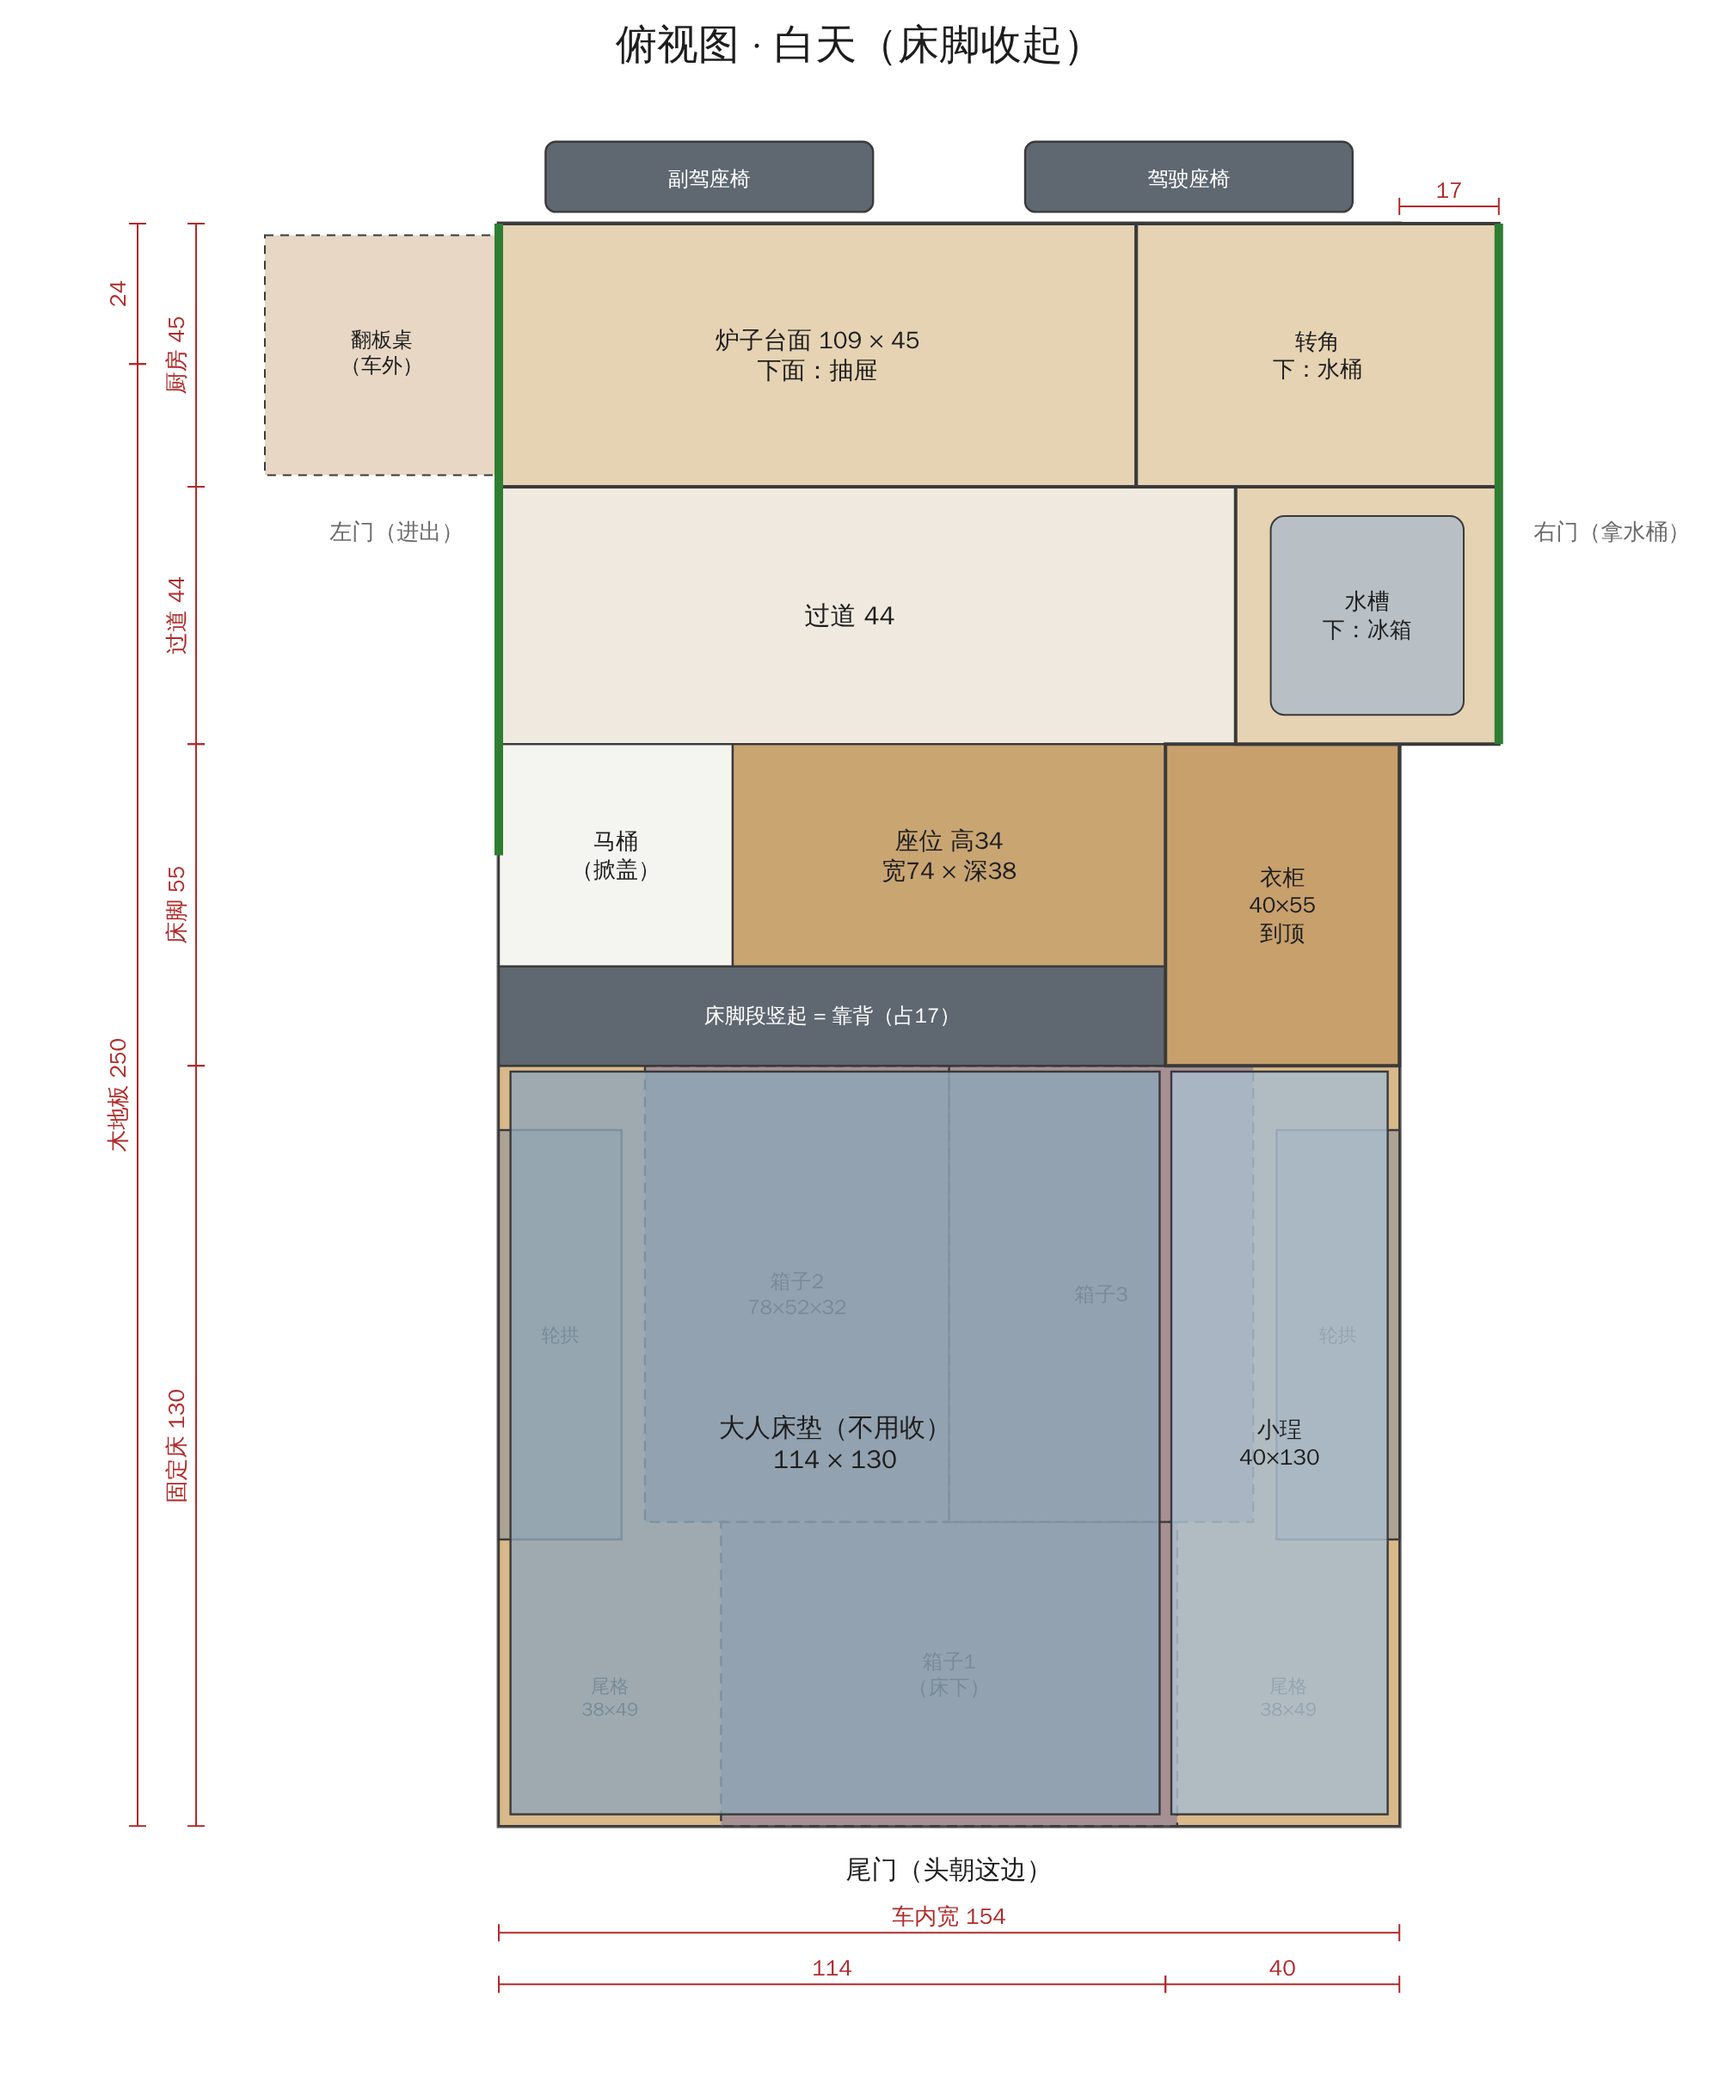
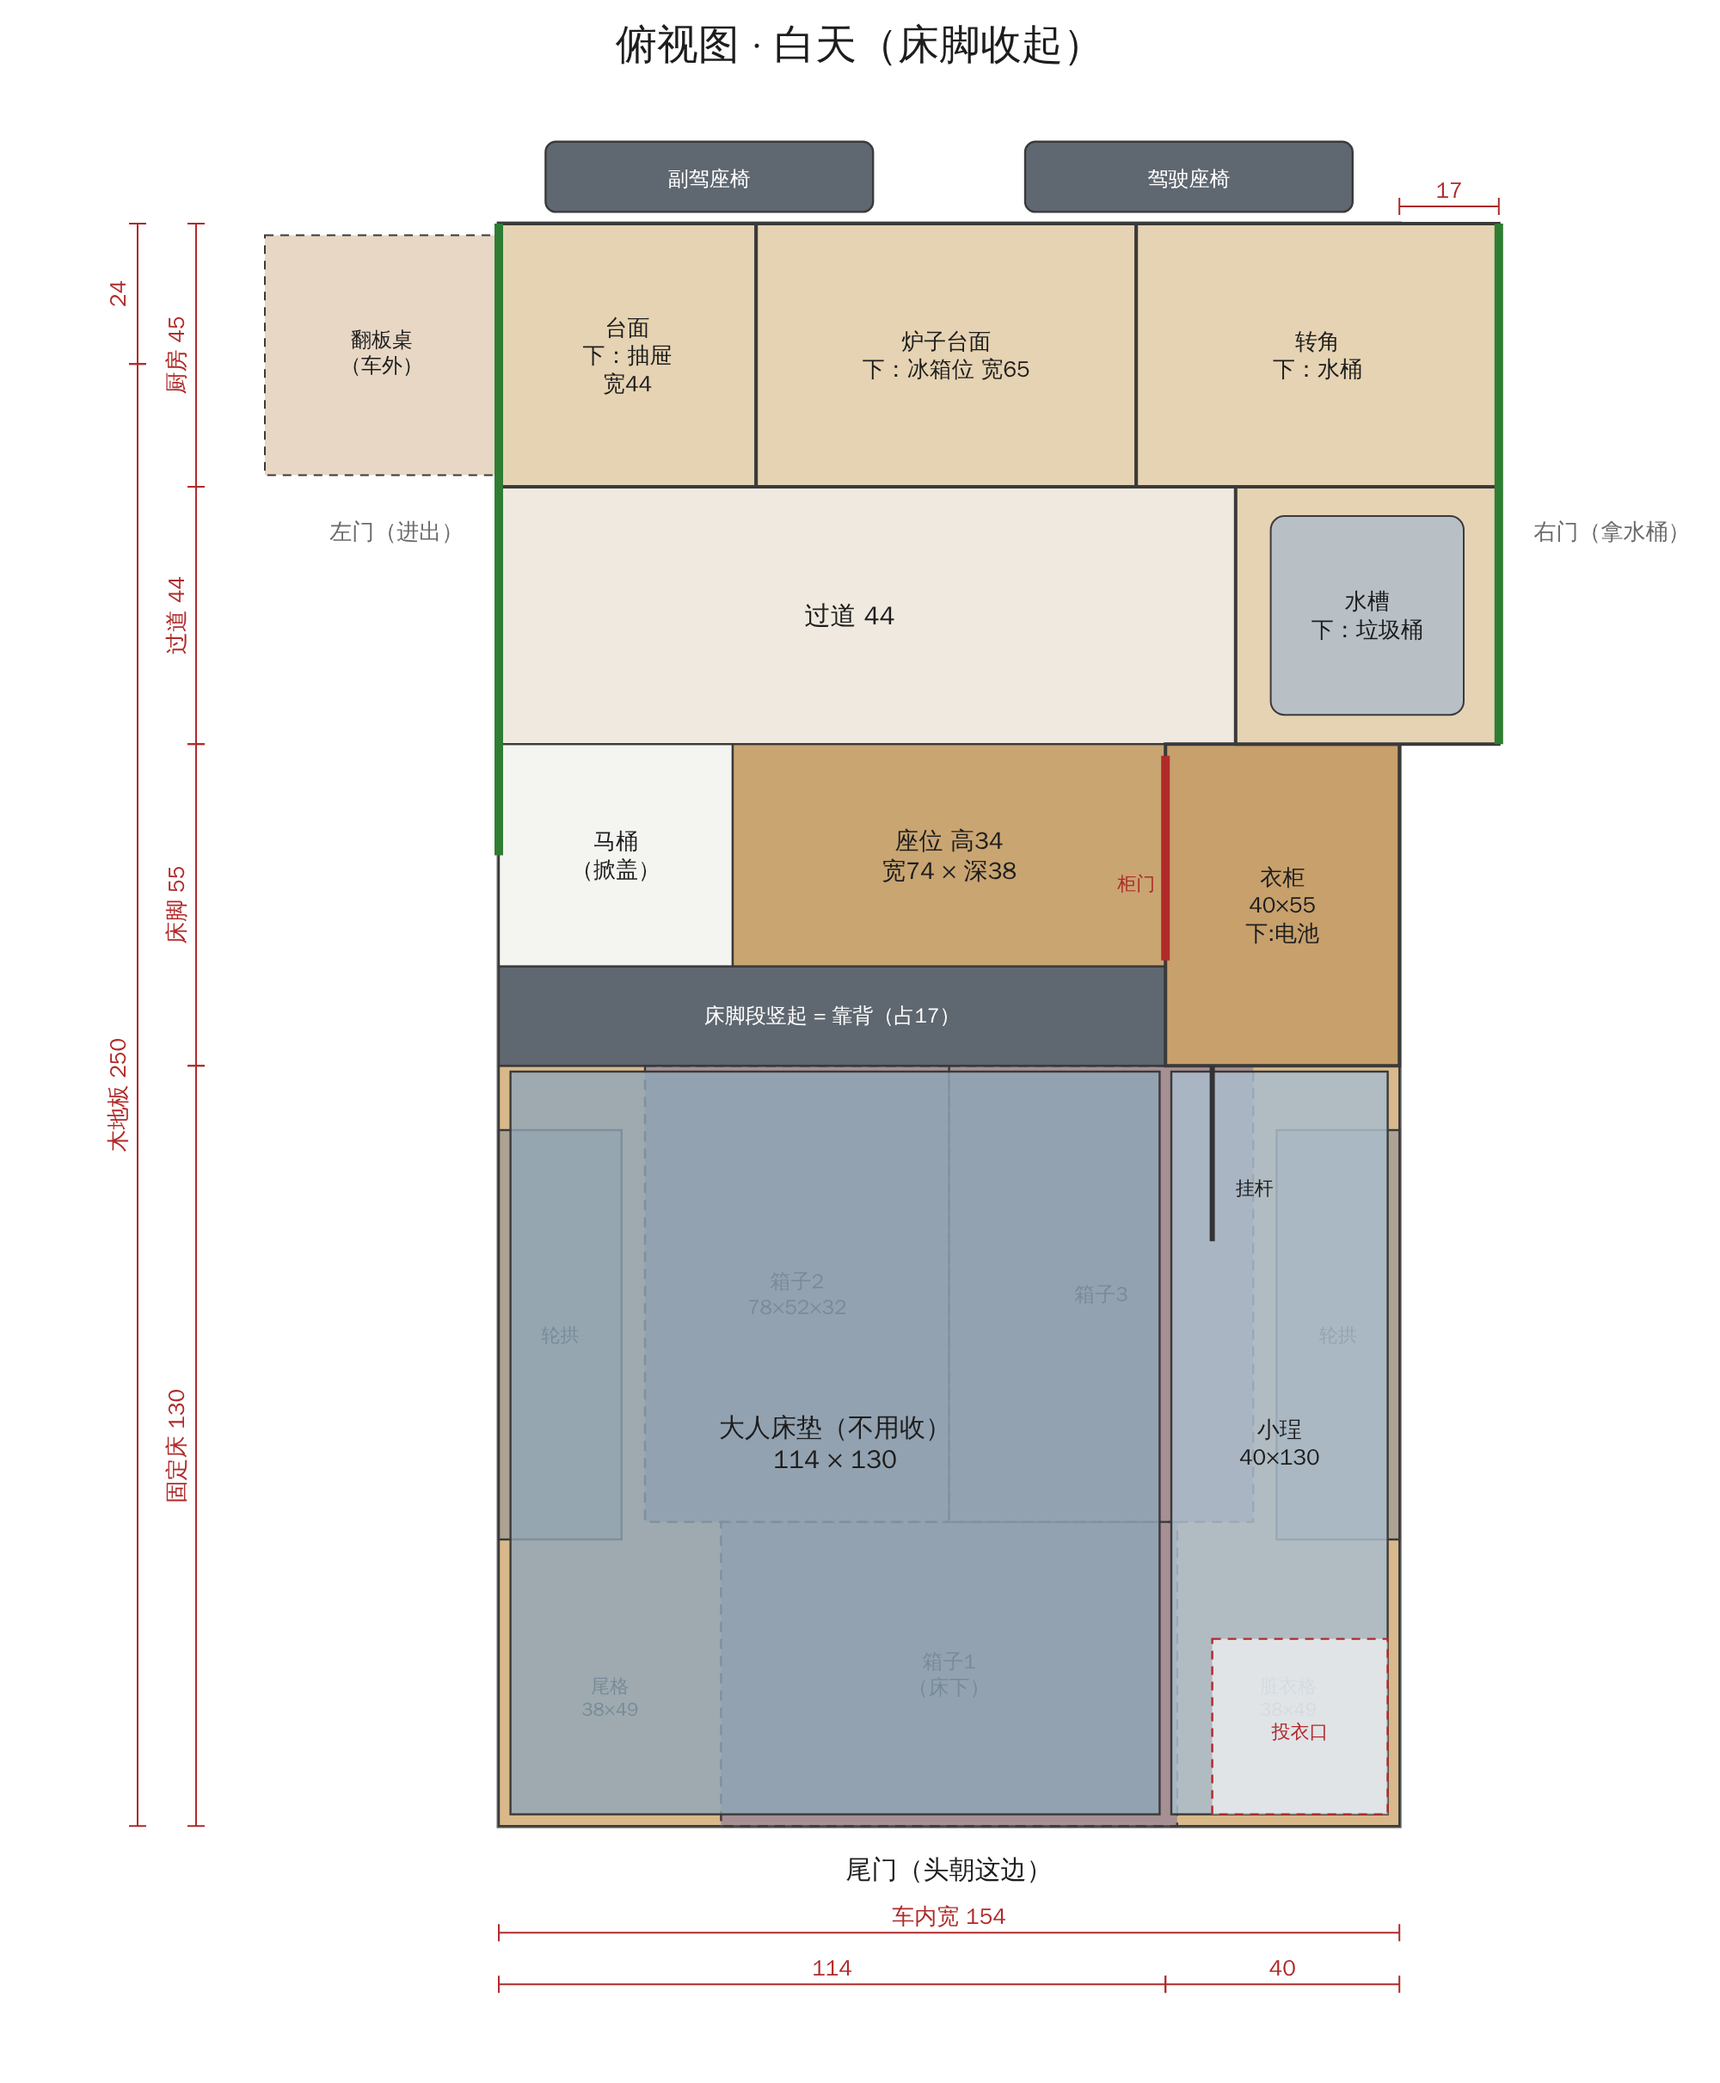
Update layout: fridge bay under stove bench, battery bay in wardrobe base, kitchen elevation
Claude-Session: https://claude.ai/code/session_01WPwyTGQdLTwCJaMXsiybPN

diff --git a/drawings/draw.py b/drawings/draw.py
@@ -140,7 +140,7 @@ def plan(mode):
                      extra='fill-opacity="0.7"'))
     # tail pockets
     o.append(mtext(X(19), Y(22), ["尾格", "38×49"], 11))
-    o.append(mtext(X(W - 19), Y(22), ["尾格", "38×49"], 11))
+    o.append(mtext(X(W - 19), Y(22), ["脏衣格", "38×49"], 11))
     # mattresses
     if mode == "under":
         o.append(box(0, FIX, 40, BED_END, C["toilet"], ["马桶", "高≤32"], 13))
@@ -165,17 +165,25 @@ def plan(mode):
         o.append(text(X(ADULT_W / 2), Y(FIX + UP / 2) + 4, "床脚段竖起 = 靠背（占17）", 12, fill="#ffffff"))
         o.append(box(0, FIX + UP, 40, BED_END, C["toilet"], ["马桶", "（掀盖）"], 13))
         o.append(box(40, FIX + UP, ADULT_W, BED_END, C["ply2"], ["座位 高34", "宽74 × 深38"], 14))
+    if mode != "under":
+        o.append(rect(X(W - 32), Y(32), 30 * S, 30 * S, "#ffffff", stroke="#b02a2a", extra='stroke-dasharray="5 4" fill-opacity="0.6"'))
+        o.append(text(X(W - 17), Y(15), "投衣口", 11, fill=C["dim"]))
     # wardrobe
-    o.append(box(ADULT_W, FIX, W, BED_END, C["ward"], ["衣柜", "40×55", "到顶"], 13, sw=2))
+    o.append(box(ADULT_W, FIX, W, BED_END, C["ward"], ["衣柜", "40×55", "下:电池"], 13, sw=2))
+    o.append(f'<line x1="{X(ADULT_W):.1f}" y1="{Y(BED_END-2):.1f}" x2="{X(ADULT_W):.1f}" y2="{Y(FIX+18):.1f}" stroke="#b02a2a" stroke-width="5"/>')
+    o.append(text(X(ADULT_W) - 6, Y(FIX + 30), "柜门", 11, anchor="end", fill=C["dim"]))
+    o.append(f'<line x1="{X(ADULT_W+8):.1f}" y1="{Y(FIX):.1f}" x2="{X(ADULT_W+8):.1f}" y2="{Y(FIX-30):.1f}" stroke="#333" stroke-width="3"/>')
+    o.append(text(X(ADULT_W + 12), Y(FIX - 22), "挂杆", 11, anchor="start"))
     # aisle
     o.append(mtext(X(60), Y((BED_END + KIT_Y) / 2), ["过道 44"], 15))
     # sink leg + fridge
     o.append(box(SINK_X0, BED_END, W + STEP, KIT_Y, C["kit"], None, sw=2))
     o.append(f'<rect x="{X(SINK_X0+6):.1f}" y="{Y(KIT_Y-5):.1f}" width="{33*S:.1f}" height="{34*S:.1f}" '
              f'rx="8" fill="{C["steel"]}" stroke="{C["line"]}"/>')
-    o.append(mtext(X(SINK_X0 + 22.5), Y((BED_END + KIT_Y) / 2), ["水槽", "下：冰箱"], 13))
+    o.append(mtext(X(SINK_X0 + 22.5), Y((BED_END + KIT_Y) / 2), ["水槽", "下：垃圾桶"], 13))
     # front row
-    o.append(box(0, KIT_Y, 109, SEAT, C["kit"], ["炉子台面 109 × 45", "下面：抽屉"], 14, sw=2))
+    o.append(box(0, KIT_Y, 44, SEAT, C["kit"], ["台面", "下：抽屉", "宽44"], 13, sw=2))
+    o.append(box(44, KIT_Y, 109, SEAT, C["kit"], ["炉子台面", "下：冰箱位 宽65"], 13, sw=2))
     o.append(box(109, KIT_Y, W + STEP, SEAT, C["kit"], ["转角", "下：水桶"], 13, sw=2))
     # fold-out table at left door
     o.append(f'<rect x="{X(-40):.1f}" y="{Y(SEAT-2):.1f}" width="{40*S:.1f}" height="{41*S:.1f}" '
@@ -364,7 +372,8 @@ def iso(mode):
     face_y(113, SINK_X0 - 2, KIT_Y, 4, BENCH_H - 7, "#f1e3c8", "水桶")
     box(0, KIT_Y, 0, 109, SEAT, BENCH_H - 3, C["kit"])
     for i in range(3):
-        face_y(4, 105, KIT_Y, 4 + i * 21, 23 + i * 21, "#f1e3c8", "抽屉" if i == 1 else None)
+        face_y(3, 41, KIT_Y, 4 + i * 21, 23 + i * 21, "#f1e3c8", "抽屉" if i == 1 else None)
+    face_y(47, 106, KIT_Y, 4, BENCH_H - 7, C["fridge"], "冰箱位 65宽")
     box(0, KIT_Y - 1, BENCH_H - 3, W + STEP, SEAT, BENCH_H, C["top"], "炉子台面")
     for (rx0, rx1) in ((W + STEP - 62, W + STEP), (0, 48)):
         for zz in (BENCH_H + 24, BENCH_H + 12):
@@ -377,7 +386,7 @@ def iso(mode):
     box(-40, SEAT - 43, BENCH_H - 3, 0, SEAT - 2, BENCH_H - 1, C["top"], "翻板桌", 0.8, 12)
     # --- sink leg
     box(SINK_X0, BED_END, 0, W + STEP, KIT_Y, BENCH_H - 3, C["kit"])
-    face_x(SINK_X0, BED_END + 3, KIT_Y - 3, 4, 50, C["fridge"], "冰箱")
+    face_x(SINK_X0, BED_END + 3, KIT_Y - 3, 4, BENCH_H - 7, "#f1e3c8", "垃圾桶")
     box(SINK_X0 - 1, BED_END - 1, BENCH_H - 3, W + STEP, KIT_Y - 1, BENCH_H, C["top"])
     o.append(poly([P(SINK_X0 + 6, BED_END + 5, BENCH_H), P(W + STEP - 6, BED_END + 5, BENCH_H),
                    P(W + STEP - 6, KIT_Y - 5, BENCH_H), P(SINK_X0 + 6, KIT_Y - 5, BENCH_H)], C["steel"]))
@@ -385,7 +394,10 @@ def iso(mode):
     o.append(text(a, b + 5, "水槽", 13, bold=True))
     # --- wardrobe
     box(ADULT_W, FIX, 0, W, BED_END, H_SIDE, C["ward"], "衣柜")
-    face_y(ADULT_W + 3, W - 3, BED_END, 4, H_SIDE - 4, shade(C["ward"], 1.08), "衣柜门")
+    face_x(ADULT_W, FIX + UP + 2, BED_END - 2, BED_H + MAT + 2, H_SIDE - 4, shade(C["ward"], 1.12), "柜门")
+    face_x(ADULT_W, FIX + UP + 2, BED_END - 2, SEAT_H + PAD + 1, BED_H + MAT, "#3d4a55")
+    a, b = P(ADULT_W, FIX + UP + 20, BED_H + 4)
+    o.append(text(a, b + 4, "电源面板", 11, fill="#ffffff"))
     # --- seat boxes / foot section
     box(40, FIX, 0, ADULT_W, BED_END, SEAT_H, C["ply2"])
     box(40, FIX + (UP if mode == "day" else 0), SEAT_H, ADULT_W, BED_END, SEAT_H + PAD, C["seat"])
@@ -416,6 +428,13 @@ def iso(mode):
     # --- platform + mattresses
     box(0, 0, BED_H - 2, W, FIX, BED_H, C["ply"])
     box(ADULT_W + 1, 1, BED_H, W - 1, FIX - 1, BED_H + 6, C["mat2"], "小珵 40×130")
+    o.append(poly([P(W - 32, 2, BED_H + 6), P(W - 2, 2, BED_H + 6), P(W - 2, 32, BED_H + 6), P(W - 32, 32, BED_H + 6)],
+                  "#ffffff", 0.55, "#b02a2a"))
+    a, b = P(W - 17, 17, BED_H + 6)
+    o.append(text(a, b + 4, "投衣口", 11, fill=C["dim"]))
+    r0, r1 = P(ADULT_W + 8, FIX, 112), P(ADULT_W + 8, FIX - 30, 112)
+    o.append(f'<line x1="{r0[0]:.1f}" y1="{r0[1]:.1f}" x2="{r1[0]:.1f}" y2="{r1[1]:.1f}" stroke="#333" stroke-width="4"/>')
+    o.append(text(r1[0] + 6, r1[1] - 6, "挂杆", 12, anchor="start"))
     if mode == "day":
         zt = BED_H + MAT
         box(0, FIX + MAT + 2, zt + 4, ADULT_W, FIX + UP, zt + FOOT - 4, C["seat"], op=0.45)
@@ -438,12 +457,103 @@ def iso(mode):
     return "\n".join(o)
 
 
+def kitchen():
+    """Kitchen seen from the seat, looking toward the front of the van."""
+    S = 4.2
+    ox, oy = 140, 90
+    Wpx = int(ox + (W + STEP + 70 + 55) * S + 150)
+    Hpx = int(oy + H_MID * S + 110)
+    o = svg_open(Wpx, Hpx, "厨房正面（坐在座位上往车头看） 和 衣柜剖面")
+
+    def X(x):
+        return ox + x * S
+
+    def Z(z):
+        return oy + (H_MID - z) * S
+
+    def box(x0, z0, x1, z1, fill, label=None, size=13, **kw):
+        s = rect(X(x0), Z(z1), (x1 - x0) * S, (z1 - z0) * S, fill, **kw)
+        if label:
+            s += mtext(X((x0 + x1) / 2), Z((z0 + z1) / 2), label, size)
+        return s
+
+    T = BENCH_H - 3
+    o.append(box(0, 0, W + STEP, H_SIDE, "#f6f4ef", stroke=C["wall"], sw=2.5))
+    # drawers
+    for i in range(3):
+        o.append(box(2, 3 + i * 21.5, 42, 23 + i * 21.5, "#f1e3c8", ["抽屉"], 12))
+    # fridge slot
+    o.append(box(46, 3, 107, T - 2, C["fridge"], ["冰箱位", "宽65 × 深45 × 高62", "前开门或顶开盖+滑轨"], 13))
+    # corner: water
+    o.append(box(111, 3, SINK_X0 - 1, T - 2, "#f1e3c8", ["转角"], 12))
+    # sink leg front (nearer to viewer), drawn dashed over the right part
+    o.append(box(SINK_X0, 0, W + STEP, T, C["kit"], ["水槽柜（靠近你）", "下：垃圾桶", "后面转角：水桶 ×2", "从右门拿"], 12,
+                 extra='fill-opacity="0.85"'))
+    # benchtop
+    o.append(box(0, T, W + STEP, BENCH_H, C["top"]))
+    o.append(text(X(24), Z(BENCH_H) - 6, "台面统一 70", 13, fill=C["dim"], bold=True))
+    # stove + sink symbols
+    o.append(box(52, BENCH_H, 88, BENCH_H + 9, "#333", None))
+    o.append(text(X(70), Z(BENCH_H + 3), "炉子", 12, fill="#ffffff"))
+    o.append(box(SINK_X0 + 6, BENCH_H - 15, W + STEP - 6, BENCH_H, C["steel"], ["水槽 深15"], 11))
+    # window + racks + top shelf
+    o.append(box(52, BENCH_H + 6, 104, BENCH_H + 26, "#cfe6f5", ["小窗 52×20", "（高度待定）"], 12))
+    for (x0, x1) in ((0, 48), (108, W + STEP)):
+        for zz in (BENCH_H + 12, BENCH_H + 24):
+            o.append(box(x0, zz, x1, zz + 1.5, C["top"]))
+        o.append(text(X((x0 + x1) / 2), Z(BENCH_H + 17), "置物架", 12))
+    o.append(box(0, H_SIDE - 20, W + STEP, H_SIDE - 18.2, C["top"]))
+    o.append(text(X(80), Z(H_SIDE - 9), "顶部搁板（带挡边）", 13))
+    # flap table
+    o.append(box(-22, 40, 0, 42, C["top"], None, extra='stroke-dasharray="5 4"'))
+    o.append(text(X(-11), Z(46), "翻板", 11))
+    o.append(text(X(-11), Z(52), "高度待定", 10, fill=C["dim"]))
+    # dims
+    zb = Z(0) + 36
+    o.append(dim_h(X(0), X(44), zb, "44"))
+    o.append(dim_h(X(44), X(109), zb, "65"))
+    o.append(dim_h(X(109), X(W + STEP), zb, "62（含外伸17）"))
+    o.append(dim_v(X(0) - 100, Z(H_SIDE), Z(0), f"侧边车高 {H_SIDE}"))
+    o.append(dim_v(X(W + STEP) + 24, Z(BENCH_H), Z(0), f"台面 {BENCH_H}", side=1))
+    o.append(text(X(-8), Z(H_SIDE + 4), "左门", 12, anchor="end", fill="#2e7d32", bold=True))
+    o.append(text(X(W + STEP + 8), Z(H_SIDE + 4), "右门", 12, anchor="start", fill="#2e7d32", bold=True))
+
+    # ---- wardrobe section (seen from the seat side)
+    wx = W + STEP + 70
+    def WX(v):
+        return ox + (wx + v) * S
+    def wbox(a0, z0, a1, z1, fill, label=None, size=12, **kw):
+        s = rect(WX(a0), Z(z1), (a1 - a0) * S, (z1 - z0) * S, fill, **kw)
+        if label:
+            s += mtext(WX((a0 + a1) / 2), Z((z0 + z1) / 2), label, size)
+        return s
+    o.append(text(WX(27), Z(H_SIDE + 5), "衣柜（从座位这边看）", 14, bold=True))
+    o.append(wbox(0, 0, 55, H_SIDE, C["ward"], None, sw=2))
+    o.append(wbox(2, 2, 53, 48, "#3d4a55", None))
+    o.append(wbox(5, 4, 31, 25, "#6f8fa6", ["电池1"], 11))
+    o.append(wbox(5, 26, 31, 47, "#8aa3b5", ["电池2", "（以后）"], 10))
+    o.append(wbox(34, 4, 51, 47, "#55636e", ["控制器", "保险盒"], 10))
+    o.append(wbox(0, 49, 55, 51, C["ply"]))
+    o.append(text(WX(57), Z(49), "活动底板", 11, anchor="start"))
+    o.append(text(WX(57), Z(25), "电器仓 高50", 11, anchor="start"))
+    for i, zz in enumerate((53, 77, 101)):
+        o.append(wbox(3, zz, 52, zz + 21, "#f1e3c8", ["拉篮（叠放衣服）"], 11))
+    o.append(wbox(36, 39, 53, 47, "#111", None))
+    o.append(text(WX(57), Z(41), "电源面板", 11, anchor="start"))
+    o.append(text(WX(57), Z(36), "开关/USB/电量表", 10, anchor="start"))
+    o.append(dim_v(WX(0) - 12, Z(H_SIDE), Z(51), "衣物区 76"))
+    o.append(dim_h(WX(0), WX(55), Z(0) + 36, "深 55"))
+    o.append("</svg>")
+    return "\n".join(o)
+
+
 if __name__ == "__main__":
     files = {
         "plan-day.svg": plan("day"),
         "plan-night.svg": plan("night"),
         "plan-under.svg": plan("under"),
         "side.svg": side(),
+        "kitchen.svg": kitchen(),
         "view-day.svg": iso("day"),
         "view-night.svg": iso("night"),
     }
